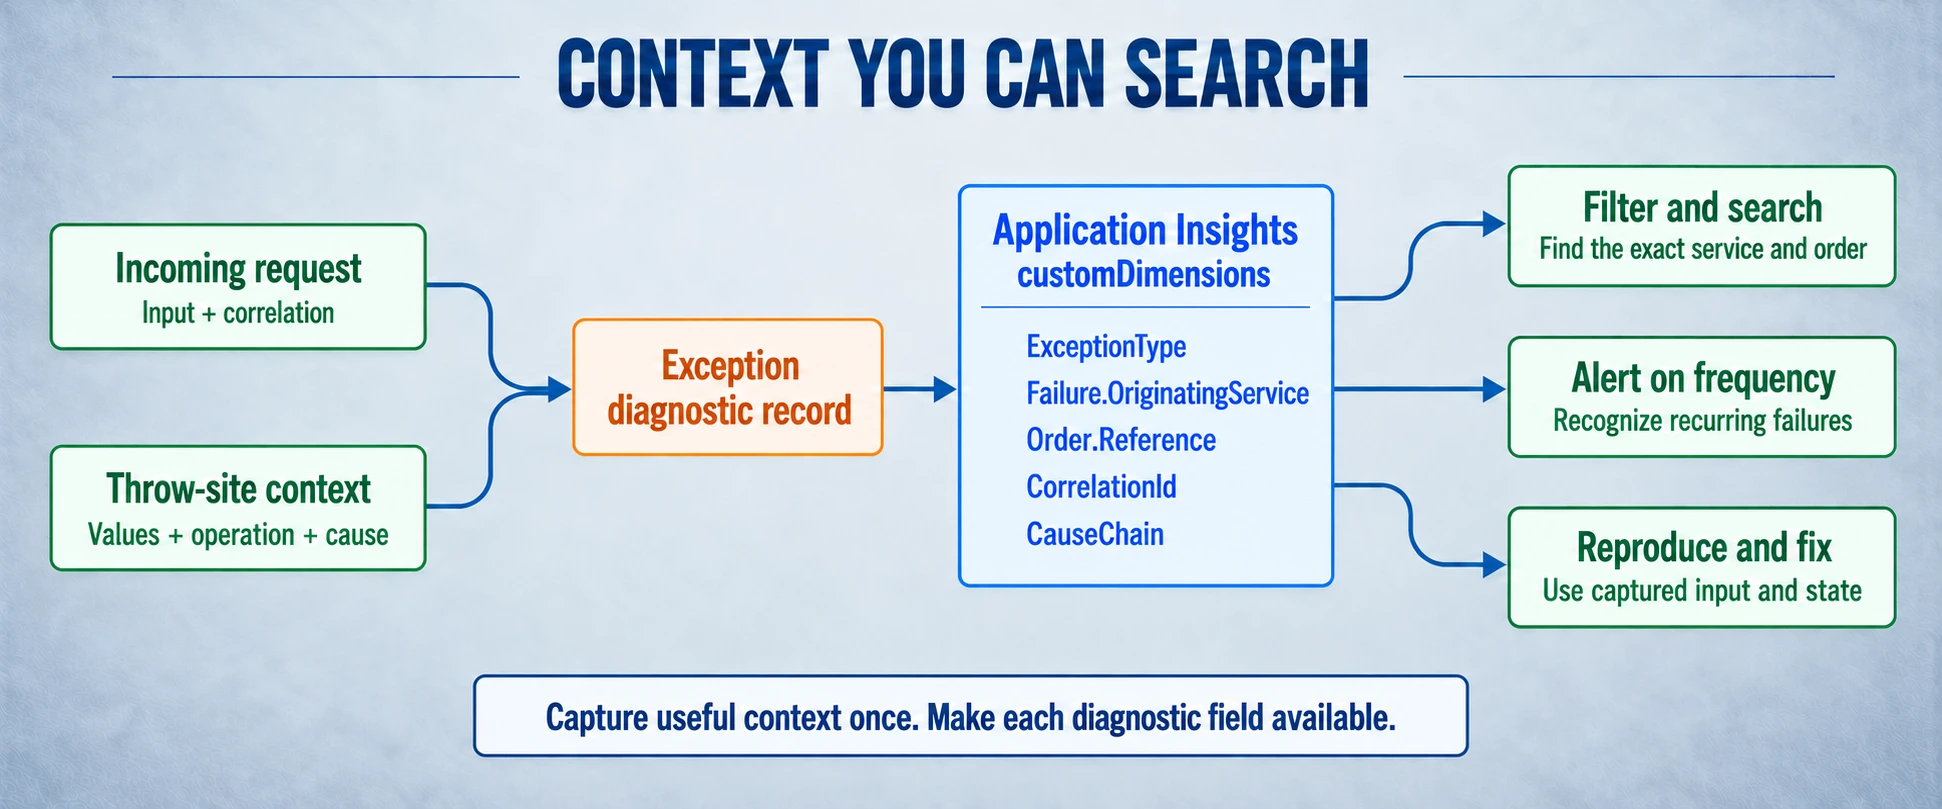
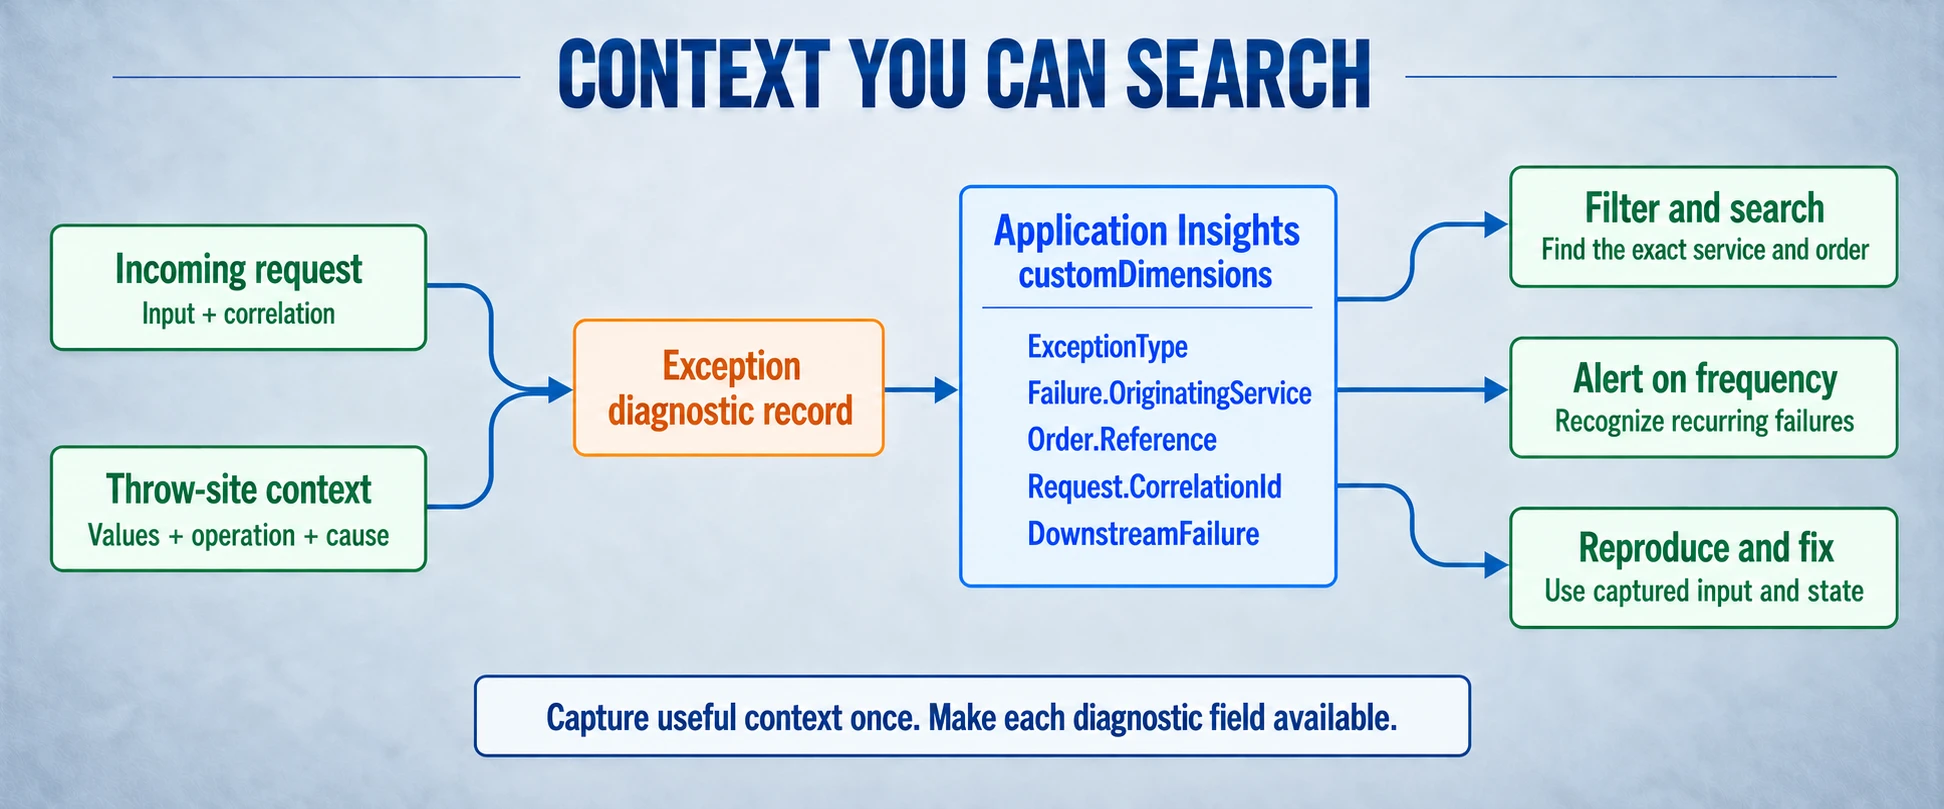
Match the custom-dimensions diagram labels to Part 3
The Part 3 diagram listed CorrelationId and CauseChain, while the article
uses Request.CorrelationId and DownstreamFailure. Regenerate it from the
published drawing with only the dimension list changed, update the alt
text and dimensions, and record the edit prompt and backlog note.

diff --git a/public/images/diagrams/exception-context-custom-dimensions.prompt.md b/public/images/diagrams/exception-context-custom-dimensions.prompt.md
@@ -90,3 +90,38 @@ Six principal cards plus two inputs equals seven total: Incoming request, Throw-
 Correct the custom dimension labels to match the article's C# contract:
 `ExceptionType`, `Failure.OriginatingService`, `Order.Reference`,
 `CorrelationId`, and `CauseChain`. Preserve all other content and styling.
+
+# Label correction, November 2, 2026
+
+Regenerated for **Programming to Exceptions, Part 3: Logging and Progress** by
+editing the published drawing with the built-in image generator. The current
+drawing was attached as the input image, and the request changed only the
+dimension list, so it matches the article's property names: `CorrelationId`
+became `Request.CorrelationId`, and `CauseChain` became `DownstreamFailure`.
+Native output was 1944 x 809 pixels.
+
+```text
+Reproduce the attached diagram faithfully: the same title, background, paper texture, typography, card shapes, colours, outline weights, connectors, arrowheads, layout, wide landscape proportions and footer. Change only the lines listed inside the blue "Application Insights / customDimensions" card.
+
+That card must list exactly these five property names, one per line, in this order, left-aligned in the same blue condensed lettering:
+"ExceptionType"
+"Failure.OriginatingService"
+"Order.Reference"
+"Request.CorrelationId"
+"DownstreamFailure"
+
+Preserve their exact spelling, capitalization and dots. Do not add spaces or hyphens inside a name. Widen the blue card slightly if needed so every name fits on one line with comfortable padding, and keep the three output arrows leaving its right edge cleanly.
+
+Keep every other label exactly as it is now:
+Title "CONTEXT YOU CAN SEARCH".
+"Incoming request" / "Input + correlation".
+"Throw-site context" / "Values + operation + cause".
+"Exception diagnostic record".
+"Application Insights" / "customDimensions".
+"Filter and search" / "Find the exact service and order".
+"Alert on frequency" / "Recognize recurring failures".
+"Reproduce and fix" / "Use captured input and state".
+Footer "Capture useful context once. Make each diagnostic field available."
+
+No new cards, icons, logos, watermark or decoration. All text crisp and readable when the image is shown about 700 pixels wide.
+```

diff --git a/src/content/writing/programming-to-exceptions-logging-and-progress.md b/src/content/writing/programming-to-exceptions-logging-and-progress.md
@@ -144,7 +144,7 @@ Make it a [log search alert rule](https://learn.microsoft.com/en-us/azure/azure-
 
 <!-- diagram:start exception-context-custom-dimensions -->
 <figure id="exception-context-custom-dimensions" class="article-diagram article-diagram--raster">
-  <img class="article-diagram__image" src="/images/diagrams/exception-context-custom-dimensions.webp" alt="Incoming request information and throw-site context form an exception diagnostic record. Application Insights stores individual custom dimensions including ExceptionType, Failure.OriginatingService, Order.Reference, CorrelationId, and CauseChain, supporting filtering, frequency alerts, and reproduction." width="1942" height="809" loading="lazy" decoding="async" />
+  <img class="article-diagram__image" src="/images/diagrams/exception-context-custom-dimensions.webp" alt="Incoming request information and throw-site context form an exception diagnostic record. Application Insights stores individual custom dimensions including ExceptionType, Failure.OriginatingService, Order.Reference, Request.CorrelationId, and DownstreamFailure, supporting filtering, frequency alerts, and reproduction." width="1944" height="809" loading="lazy" decoding="async" />
   <figcaption>Useful context becomes searchable custom dimensions. Expose the originating service and other filter fields individually, preserve the cause chain, and use the captured request and relevant state to reproduce the problem.</figcaption>
   <p class="article-diagram__full"><a href="/images/diagrams/exception-context-custom-dimensions.webp">Open full-size diagram</a></p>
 </figure>

diff --git a/docs/article-review-backlog.md b/docs/article-review-backlog.md
@@ -23,10 +23,10 @@ retained as hidden spans. The Application Insights details (3.x dropping scope
 values unless `IncludeScopes` is enabled, and log entries written without an
 exception object landing in `traces`) were checked against Microsoft's SDK
 guidance and exporter source on November 2, 2026; confirm them against a real
-resource before the next substantive edit. The reused
-`exception-context-custom-dimensions.webp` labels two dimensions `CorrelationId`
-and `CauseChain`, while the article uses `Request.CorrelationId` and
-`DownstreamFailure`; regenerate it if the mismatch matters.
+resource before the next substantive edit. Its reused
+`exception-context-custom-dimensions.webp` was regenerated the same day so its
+dimension labels match the article: `Request.CorrelationId` and
+`DownstreamFailure` replace `CorrelationId` and `CauseChain`.
 
 ## Mocking source attribution, October 25, 2026
 
